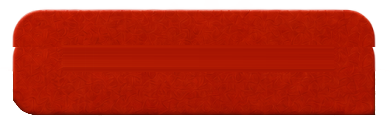
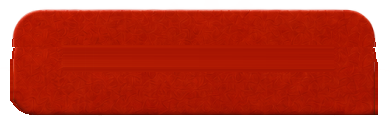
Svaroots hover: single tab slides (no fade/ghost), flap-shaped clip, separate text fade
Claude-Session: https://claude.ai/code/session_01MxocEuUDsnpTGJ6FZbt7jA

Changed region(s): [[0.9538, 0.3934, 0.9846, 0.9344], [0.0, 0.4918, 0.0923, 0.9344], [0.0308, 0.3934, 0.0615, 0.4918]]

diff --git a/styles.css b/styles.css
@@ -105,14 +105,21 @@ h1, h2 { font-family: Impact, 'Anton', sans-serif; font-weight: 400; }
 .card__image { display: block; width: 100%; height: 417px; object-fit: cover; }
 /* Svaroots hover: only the red tab rises ~10px (the folder image itself never moves).
    The window is clipped at the folder's front-flap edge so the tab slides up from behind it. */
-.card__tab { position: absolute; left: 350px; top: -10px; width: 195px; height: 59px; overflow: hidden; pointer-events: none; }
-.card__tab-inner { position: absolute; left: 0; top: 0; width: 195px; height: 61px; opacity: 0; transform: translateY(10px);
-  transition: transform .32s cubic-bezier(.2,.8,.25,1), opacity .14s linear; }
+.card__tab { position: absolute; left: 350px; top: -10px; width: 195px; height: 61px; overflow: hidden; pointer-events: none;
+  /* fixed clip in the shape of the folder's front flap: the tab always slides in behind it (curved corners included) */
+  clip-path: polygon(5px 0, 189px 0, 188.75px 57.5px, 187.75px 57.5px, 186.75px 57.5px, 185.75px 57.5px, 184.75px 57.5px, 183.75px 57.5px, 182.75px 57.5px, 181.75px 57.5px, 180.75px 57.5px, 179.75px 57.5px, 178.75px 57.5px, 177.75px 57.5px, 176.75px 57.5px, 175.75px 57.5px, 174.75px 57.5px, 173.75px 57.5px, 172.75px 57.5px, 171.75px 57.5px, 170.75px 57.5px, 169.75px 57.5px, 168.75px 57.5px, 167.75px 57.5px, 166.75px 57.5px, 165.75px 57.5px, 164.75px 57.5px, 163.75px 57.5px, 162.75px 57.5px, 161.75px 57.5px, 160.75px 57.5px, 159.75px 57.5px, 158.75px 57.5px, 157.75px 57.5px, 156.75px 57.5px, 155.75px 57.5px, 154.75px 57.5px, 153.75px 57.5px, 152.75px 57.5px, 151.75px 57.5px, 150.75px 57.5px, 149.75px 57.5px, 148.75px 57.5px, 147.75px 57.5px, 146.75px 57.5px, 145.75px 57.5px, 144.75px 57.5px, 143.75px 57.5px, 142.75px 57.5px, 141.75px 57.5px, 140.75px 57.5px, 139.75px 57.5px, 138.75px 57.5px, 137.75px 57.5px, 136.75px 57.5px, 135.75px 57.5px, 134.75px 57.5px, 133.75px 57.5px, 132.75px 57.5px, 131.75px 57.5px, 130.75px 57.5px, 129.75px 57.5px, 128.75px 57.5px, 127.75px 57.5px, 126.75px 57.5px, 125.75px 57.5px, 124.75px 57.5px, 123.75px 57.5px, 122.75px 57.5px, 121.75px 57.5px, 120.75px 57.5px, 119.75px 57.5px, 118.75px 57.5px, 117.75px 57.5px, 116.75px 57.5px, 115.75px 57.5px, 114.75px 57.5px, 113.75px 57.5px, 112.75px 57.5px, 111.75px 57.5px, 110.75px 57.5px, 109.75px 57.5px, 108.75px 57.5px, 107.75px 57.5px, 106.75px 57.5px, 105.75px 57.5px, 104.75px 57.5px, 103.75px 57.5px, 102.75px 57.5px, 101.75px 57.5px, 100.75px 57.5px, 99.75px 57.5px, 98.75px 57.5px, 97.75px 57.5px, 96.75px 57.5px, 95.75px 57.5px, 94.75px 57.5px, 93.75px 57.5px, 92.75px 57.5px, 91.75px 57.5px, 90.75px 57.5px, 89.75px 57.5px, 88.75px 57.5px, 87.75px 57.5px, 86.75px 57.5px, 85.75px 57.5px, 84.75px 57.5px, 83.75px 57.5px, 82.75px 57.5px, 81.75px 57.5px, 80.75px 57.5px, 79.75px 57.5px, 78.75px 57.5px, 77.75px 57.5px, 76.75px 57.5px, 75.75px 57.5px, 74.75px 57.5px, 73.75px 57.5px, 72.75px 57.5px, 71.75px 57.5px, 70.75px 57.5px, 69.75px 57.5px, 68.75px 57.5px, 67.75px 57.5px, 66.75px 57.5px, 65.75px 57.5px, 64.75px 57.5px, 63.75px 57.5px, 62.75px 57.5px, 61.75px 57.5px, 60.75px 57.5px, 59.75px 57.5px, 58.75px 57.5px, 57.75px 57.5px, 56.75px 57.5px, 55.75px 57.5px, 54.75px 57.5px, 53.75px 57.5px, 52.75px 57.5px, 51.75px 57.5px, 50.75px 57.5px, 49.75px 57.5px, 48.75px 57.5px, 47.75px 57.5px, 46.75px 57.5px, 45.75px 57.5px, 44.75px 57.5px, 43.75px 57.5px, 42.75px 57.5px, 41.75px 57.5px, 40.75px 57.5px, 39.75px 57.5px, 38.75px 57.5px, 37.75px 57.5px, 36.75px 57.5px, 35.75px 57.5px, 34.75px 57.5px, 33.75px 57.5px, 32.75px 57.5px, 31.75px 57.5px, 30.75px 57.5px, 29.75px 57.5px, 28.75px 57.5px, 27.75px 57.5px, 26.75px 57.5px, 25.75px 57.5px, 24.75px 57.5px, 23.75px 57.5px, 22.75px 57.5px, 21.75px 57.5px, 20.75px 57.5px, 19.75px 57.5px, 18.75px 57.5px, 17.75px 57.5px, 16.75px 57.5px, 15.75px 57.5px, 14.75px 57.5px, 13.75px 57px, 12.75px 57px, 11.75px 56.5px, 10.75px 56px, 9.75px 55.5px, 8.75px 54.5px, 7.75px 53.5px, 6.75px 52.5px, 5.75px 51px, 5.25px 50.5px); }
+/* The moving tab is never faded (a fade shows the folder's own tab through it = two tabs at once). Instead it switches
+   on/off instantly while sitting exactly over the folder's tab, and only slides: up on hover, down on leave
+   (it switches off after the slide-down finishes). The text fades separately. */
+.card__tab-inner { position: absolute; left: 0; top: 0; width: 195px; height: 61px; opacity: 0; transform: translateY(10px); will-change: transform;
+  transition: transform .34s cubic-bezier(.22,.8,.26,1), opacity 0s linear .34s; }
 .card__tab-inner img { display: block; width: 100%; height: 100%; }
 .card__tab-inner span { position: absolute; left: 0; right: 0; top: 19px; text-align: center; white-space: nowrap;
-  font: 500 13px/20px Inter, system-ui, sans-serif; color: #fff7f2; }
-.card:hover .card__tab-inner, .card:has(.card__link:focus-visible) .card__tab-inner { opacity: 1; transform: translateY(0); }
-@media (prefers-reduced-motion: reduce) { .card__tab-inner { transition: none; } }
+  font: 500 13px/20px Inter, system-ui, sans-serif; color: #fff7f2; opacity: 0; transition: opacity .1s linear; }
+.card:hover .card__tab-inner, .card:has(.card__link:focus-visible) .card__tab-inner {
+  opacity: 1; transform: translateY(0); transition: transform .34s cubic-bezier(.22,.8,.26,1), opacity 0s linear; }
+.card:hover .card__tab-inner span, .card:has(.card__link:focus-visible) .card__tab-inner span { opacity: 1; transition: opacity .2s ease .1s; }
+@media (prefers-reduced-motion: reduce) { .card__tab-inner, .card__tab-inner span { transition: none !important; } }
 .card__title-row { display: flex; justify-content: space-between; align-items: flex-start; }
 .card__titles { display: flex; flex-direction: column; gap: 4px; }
 .card__name { font-family: Impact, 'Anton', sans-serif; font-weight: 400; font-size: 20px; color: #f5f5f5; }
